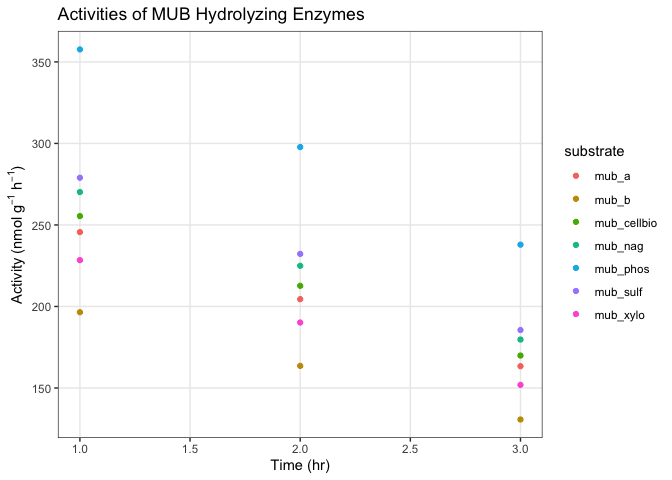
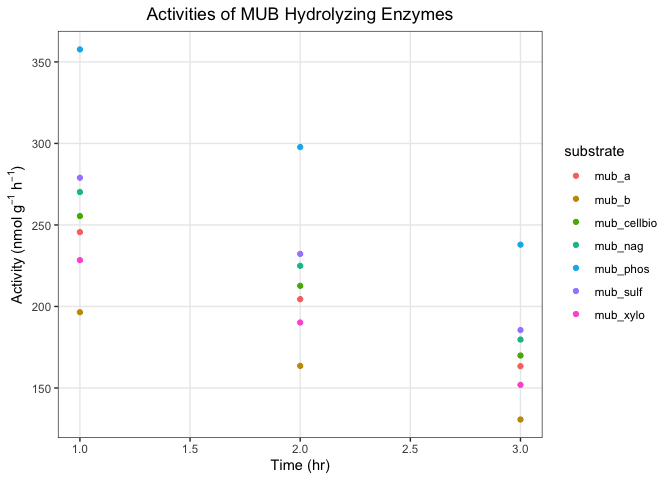
Added more description and aligned plot titles

Changed region(s): [[0.0938, 0.0, 0.6875, 0.0625]]

diff --git a/final_project/project_script_working.md b/final_project/project_script_working.md
@@ -1,7 +1,13 @@
 project_script_mhs
 ================
 
-Input Files and Load Packages
+# Determination of Extracellular Enzyme Activity from HPLC Analysis
+
+## Input Files and Load Packages
+
+“PPEE_test_2.csv is the input file containing chromatogram
+data.”metadata.csv” contains ancillary information such as soil mass,
+buffer volume, etc.
 
 ``` r
 library(tidyverse)
@@ -11,7 +17,9 @@ df1 <- read_csv("PPEE_test_2.csv")
 meta <- read_csv("metadata.csv")
 ```
 
-Slope Function
+## Slope Function
+
+The below function calculates the slope of the standard curve.
 
 ``` r
 extract_slope <- function(df, substrate) {
@@ -24,7 +32,11 @@ extract_slope <- function(df, substrate) {
 }
 ```
 
-Quench Coefficient Function
+## Quench Coefficient Function
+
+This function calculates the quench coefficient from the slope of the
+standard curve in homogenate and buffer. `pivot_wider` is used to widen
+the dataframe so that the quench coefficient is easily calculated.
 
 ``` r
 quench_fxn <- function(df) {
@@ -38,7 +50,10 @@ quench_fxn <- function(df) {
 }
 ```
 
-Emission Coefficient Function
+## Emission Coefficient Function
+
+The emission coefficient is calculated from the function below. Assay
+volume is called from the meta data file.
 
 ``` r
 emis_fxn <- function(df, meta_df) {
@@ -51,7 +66,11 @@ emis_fxn <- function(df, meta_df) {
 }
 ```
 
-Net Fluorescence Function
+## Net Fluorescence Function
+
+This function calculates net fluorescence using the output df, a
+reference df (that includes quench and emission coefficients), and an
+object corresponding to the value of the homogenate control.
 
 ``` r
 calc_net_fluor <- function(df, df_ref, ctrl_homog){
@@ -64,7 +83,11 @@ calc_net_fluor <- function(df, df_ref, ctrl_homog){
 }
 ```
 
-Activity Function
+## Activity Function
+
+This final activity function uses previously calculated net
+fluorescence, the reference df, and the meta data df to determine the
+activity of each substrate associated enzyme.
 
 ``` r
 calc_activity <- function(df_net_fluor, ref_df, meta_df){
@@ -79,21 +102,21 @@ activity_df
 }
 ```
 
-Separate AMC/MUB Standards in Homogenate
+## Separate AMC/MUB Standards in Homogenate
 
 ``` r
 df_stds_mub <- df %>% filter(substrate == "mub_std") %>% group_by(type, time) %>% nest()
 df_stds_amc <- df %>% filter(substrate == "amc_std") %>% group_by(type, time) %>% nest()
 ```
 
-Add Slope to Standards df
+## Add Slope to Standards df
 
 ``` r
 df_stds_slope_mub <- df_stds_mub %>% mutate(slope = extract_slope(df_stds_mub))
 df_stds_slope_amc <- df_stds_amc %>% mutate(slope = extract_slope(df_stds_amc))
 ```
 
-Add Quench and Emission Coefficients to Reference df
+## Add Quench and Emission Coefficients to Reference df
 
 ``` r
 df_ref_mub_q <- quench_fxn(df_stds_slope_mub)
@@ -103,7 +126,7 @@ df_ref_mub_q_e <- emis_fxn(df_ref_mub_q)
 df_ref_amc_q_e <- emis_fxn(df_ref_amc_q)
 ```
 
-Separate Live and Controls
+## Separate Live and Controls
 
 ``` r
 live_ctrl_df <- df %>% filter(type == "live" | type == "ctrl")
@@ -111,7 +134,7 @@ live_ctrl_df_mub <- live_ctrl_df %>% filter(substrate != "amc_leu")
 live_ctrl_df_amc <- live_ctrl_df %>% filter(substrate == "amc_leu")
 ```
 
-Extract Homogenate Control
+## Extract Homogenate Control
 
 ``` r
 df1_filt <- df1 %>% filter(type == "ctrl_homog")
@@ -121,14 +144,14 @@ wide_df1_filt <- df1_filt %>%
 ctrl_homog <- wide_df1_filt$ctrl_homog
 ```
 
-Add Net Fluorescence to df
+## Add Net Fluorescence to df
 
 ``` r
 net_fluor_mub <- calc_net_fluor(live_ctrl_df_mub, df_ref_mub_q, ctrl_homog)
 net_fluor_amc <- calc_net_fluor(live_ctrl_df_amc, df_ref_amc_q, ctrl_homog)
 ```
 
-Calculate Activity and clean up dfs for plotting
+## Calculate Activity and clean up dfs for plotting
 
 ``` r
 activity_mub <- calc_activity(net_fluor_mub, df_ref_mub_q_e, meta)
@@ -138,7 +161,7 @@ activity_mub_clean <- activity_mub %>% select(substrate, time, activity)
 activity_amc_clean <- activity_amc %>% select(substrate, time, activity)
 ```
 
-MUB Activity Plot
+## MUB Activity Plot
 
 ``` r
 activity_mub %>% ggplot(aes(x = time, y = activity, fill = substrate, color = substrate)) +
@@ -147,12 +170,12 @@ activity_mub %>% ggplot(aes(x = time, y = activity, fill = substrate, color = su
   xlab(label = "Time (hr)") +
   ggtitle(label = "Activities of MUB Hydrolyzing Enzymes") +
   theme_bw() +
-  theme(panel.grid.minor = element_blank())
+  theme(panel.grid.minor = element_blank(), plot.title = element_text(hjust = 0.5))
 ```
 
 ![](project_script_working_files/figure-gfm/unnamed-chunk-14-1.png)
 
-AMC Activity Plot
+## AMC Activity Plot
 
 ``` r
 activity_amc %>% ggplot(aes(x = time, y = activity, fill = substrate, color = substrate)) +
@@ -161,7 +184,7 @@ activity_amc %>% ggplot(aes(x = time, y = activity, fill = substrate, color = su
   xlab(label = "Time (hr)") +
   ggtitle(label = "Activities of AMC Hydrolyzing Enzymes") +
   theme_bw() +
-  theme(panel.grid.minor = element_blank())
+  theme(panel.grid.minor = element_blank(), plot.title = element_text(hjust = 0.5))
 ```
 
 ![](project_script_working_files/figure-gfm/unnamed-chunk-15-1.png)
